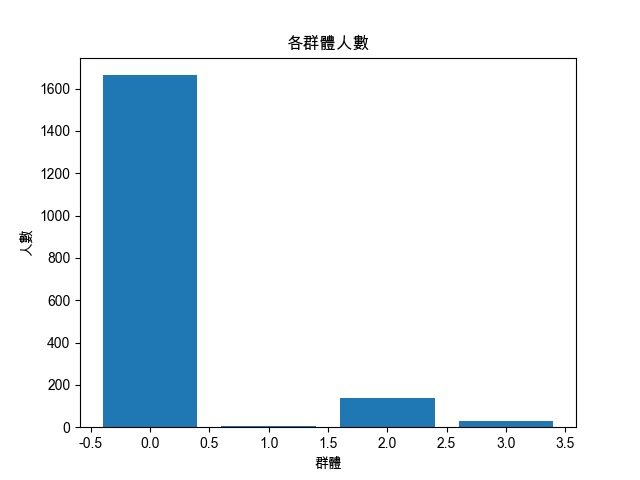
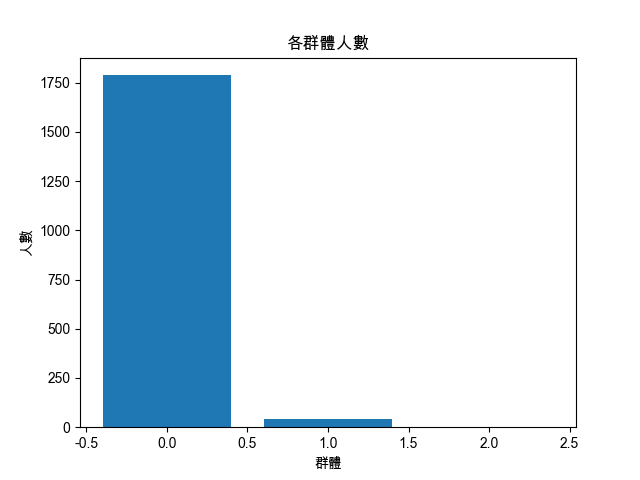
Feat: change customkeyword and chart style.

diff --git a/entrypoint.py b/entrypoint.py
@@ -13,6 +13,8 @@ from src.draw_data import (
 )
 
 # 取得處理過的資料
+
+
 def getProcessedData():
     # 讀取 csv 檔案，並將資料儲存至 dataframe
     df: RawDataDict = pd.read_csv('static/crawl_data.csv')
@@ -24,10 +26,11 @@ def getProcessedData():
     df = replacePrincipalNickname(df)
 
     # 候選人(品牌)名單
-    principals = ["柯文哲","侯友宜","賴清德"]
+    principals = ["柯文哲", "侯友宜", "賴清德"]
 
     # 建立一個空的 dataframe，用來儲存處理過的資料
-    dataframe = pd.DataFrame(columns=['author', 'content', 'time', 'sentiment', 'principal'])
+    dataframe = pd.DataFrame(
+        columns=['author', 'content', 'time', 'sentiment', 'principal'])
     for principal in principals:
         # 呼叫 getPrincipalProcessedData 函式，取得特定候選人的資料
         principalDataframe = getPrincipalProcessedData(df, principal)
@@ -36,7 +39,8 @@ def getProcessedData():
         print(f'{principal}的資料有{len(principalDataframe)}筆')
 
         # 將處理過的資料合併成一個 dataframe
-        dataframe = pd.concat([dataframe, principalDataframe], ignore_index=True)
+        dataframe = pd.concat(
+            [dataframe, principalDataframe], ignore_index=True)
 
     # 去除掉重複的資料
     dataframe = dataframe.drop_duplicates()
@@ -44,35 +48,39 @@ def getProcessedData():
     dataframe.to_csv('static/processed_data.csv', index=False)
 
 # 取得處理過的資料生成的圖表
+
+
 def getProcessedDataChart():
     # 讀取 csv 檔案，並將資料儲存至 dataframe
     # 欄位有 author,content,time,sentiment,principal
-    df = pd.read_csv('static/processed_data.csv', parse_dates=['time'], date_format="%m/%d")
+    df = pd.read_csv('static/processed_data.csv',
+                     parse_dates=['time'], date_format="%m/%d")
 
     # 各候選人聲量長條圖
-    #drawPrincipalVolumeBar(df)
+    # drawPrincipalVolumeBar(df)
 
     # 各候選人聲量折線圖(趨勢圖)
-    #drawPrincipalVolumeLine(df)
+    # drawPrincipalVolumeLine(df)
 
     # 各候選人情緒長條圖
-    #drawPrincipalSentimentBar(df)
+    # drawPrincipalSentimentBar(df)
 
     # 各候選人情緒折線圖(趨勢圖)
-    #drawPrincipalSentimentLine(df)
+    # drawPrincipalSentimentLine(df)
 
     # 各候選人聲量與情緒比較圖(象限圖)
-    drawPrincipalVolumeAndSentimentScatter(df)
+    # drawPrincipalVolumeAndSentimentScatter(df)
 
     # 各候選人與關鍵字聲量比較折現圖
-    #drawPrincipalCustomKeywordLine(df)
+    # drawPrincipalCustomKeywordLine(df)
 
     # 各候選人與關鍵字情緒之知覺圖
-    #drawPrincipalCustomKeywordSentimentScatter(df)
+    # drawPrincipalCustomKeywordSentimentScatter(df)
 
     # 自訂關鍵字聲量與情緒分群比較折線圖
-    #drawPrincipalCustomKeywordSegimentsGroupLine(df)
+    drawPrincipalCustomKeywordSegimentsGroupLine(df)
+
 
 if __name__ == '__main__':
-  #getProcessedData()
-  getProcessedDataChart()
+    # getProcessedData()
+    getProcessedDataChart()

diff --git a/src/draw_data.py b/src/draw_data.py
@@ -178,7 +178,7 @@ def drawPrincipalCustomKeywordSegimentsGroupLine(dataframe: pd.DataFrame):
     copyDataframe = dataframe.copy()
 
     # 自訂關鍵字
-    customKeywords = ["賄選", "台獨", "民調", "造勢", "連任", "總統大選", "黨內聲量", "民意聲量", "網路聲量"]
+    customKeywords = ["台獨", "經濟", "治安", "能源", "房價", "環境", "親中"]
 
     # 計算每一個關鍵字的聲量
     for keyword in customKeywords:
@@ -222,8 +222,8 @@ def drawPrincipalCustomKeywordSegimentsGroupLine(dataframe: pd.DataFrame):
         print('Silhouette Score for %i Clusters: %0.4f' % (k, silhouette_avg))
 
 
-    # 最後決定分成4群
-    clustering = KMeans(n_clusters=4,random_state=1, n_init='auto').fit(volume_cluster)  
+    # 最後決定分成3群
+    clustering = KMeans(n_clusters=3,random_state=1, n_init='auto').fit(volume_cluster)  
 
     # 將分群結果加入原始資料
     volume_cluster['cluster'] = clustering.labels_
@@ -245,14 +245,16 @@ def drawPrincipalCustomKeywordSegimentsGroupLine(dataframe: pd.DataFrame):
     plt.show()
 
     # 繪製群體各關鍵字聲量圖
-    for keyword in customKeywords:
-        if keyword not in volume_cluster_group.columns:
-            continue
-        plt.plot(volume_cluster_group['cluster'], volume_cluster_group[keyword], label=keyword)
-    chart_title = '各群體關鍵字聲量'
+    # X軸是關鍵字 Y軸是聲量
+    columns = volume_cluster_group.columns.drop(['cluster', '人數'])
+    plt.plot(columns, volume_cluster_group.iloc[0].drop(['cluster', '人數']), label='政治狂熱派')
+    plt.plot(columns, volume_cluster_group.iloc[1].drop(['cluster', '人數']), label='台獨重視派')
+    plt.plot(columns, volume_cluster_group.iloc[2].drop(['cluster', '人數']), label='政治中立派')
     plt.legend()
+    chart_title = '各群體關鍵字聲量'
     plt.title(chart_title)
-    plt.xlabel('群體')
+    plt.xlabel('關鍵字')
     plt.ylabel('聲量')
     plt.savefig(f'./static/result_charts/{chart_title}.png')
     plt.show()
+    
